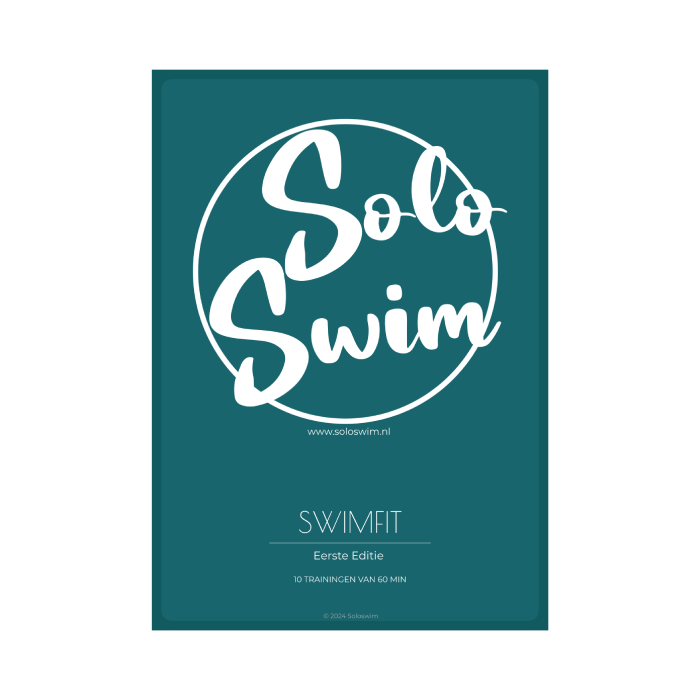
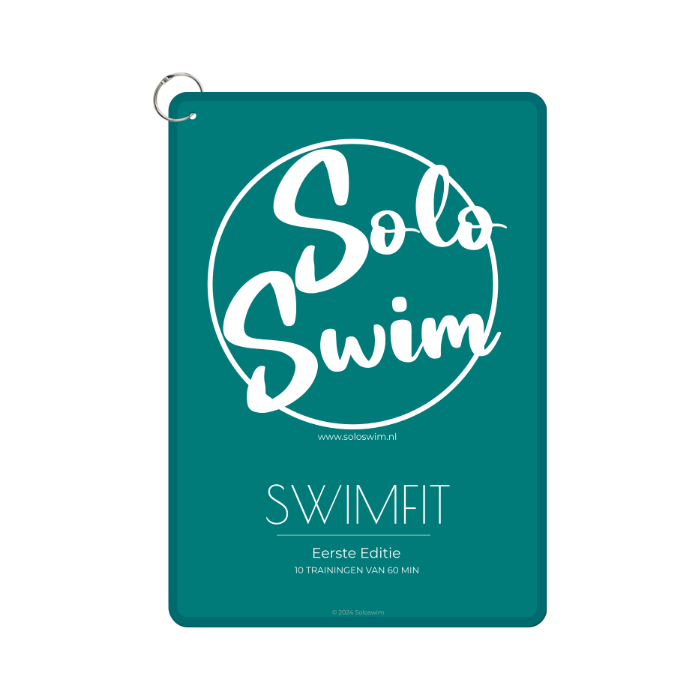
add swimfit image and fix cart and cartmodal regarding type undefined case

Changed region(s): [[0.21, 0.09, 0.81, 0.9], [0.36, 0.69, 0.63, 0.84]]

diff --git a/components/products/SectionProductDescription.js b/components/products/SectionProductDescription.js
@@ -58,7 +58,7 @@ function SectionProductDescription({ productData, addItemToBasket }) {
     window.history.pushState({}, "", url);
   };
 
-  const [niveau, setNiveau] = useState("Beginners");
+  const [niveau, setNiveau] = useState();
 
   useEffect(() => {
     const niveauParam = searchParams.get("niveau");
@@ -263,9 +263,7 @@ function SectionProductDescription({ productData, addItemToBasket }) {
                     query: {
                       inCart: "true",
                       id: productData.id,
-                      niveau: productData.type
-                        ? niveau.toLowerCase()
-                        : undefined,
+                      ...(niveau && { niveau: niveau.toLowerCase() }),
                     },
                   }}
                 >

diff --git a/components/products/CartModal.tsx b/components/products/CartModal.tsx
@@ -18,6 +18,9 @@ function Modal() {
   console.log(addedItem);
 
   const typeNumber = () => {
+    if (!addedItem[0].type) {
+      return 0;
+    }
     if (
       addedItem[0].type === "Beginners" ||
       addedItem[0].type === "25 meter zwembad"

diff --git a/products/soloswim-badmuts.md b/products/soloswim-badmuts.md
@@ -4,7 +4,7 @@ product_id: "BM1"
 title: "De Soloswim badmuts"
 price: 9.99
 description: "Spread the word met de officiële Soloswim badmuts! Gemaakt van sterk, flexibel en fijn siliconen materiaal wat zorgt voor een comfortabele pasvorm. Het dragen van een badmuts helpt lang haar uit het gezicht te houden, zo kun jij je beter focussen op het zwemmen."
-inStock: false
+inStock: true
 features:
   [
     "Het Soloswim logo is aanwezig op allebei de zijkanten",

diff --git a/products/swimfit.md b/products/swimfit.md
@@ -27,11 +27,7 @@ images:
     "/images/zwemschemas/bcl100/4.png",
   ]
 tab1_image: "/images/zwemschemas/bcl100/5.png"
-winkelwagen_images:
-  [
-    "/images/zwemschemas/bcl100/cart/1.png",
-    "/images/zwemschemas/bcl100/cart/2.png",
-  ]
+winkelwagen_images: ["/images/zwemschemas/sf1/cart/1.png"]
 card_info: "Voor de rustige banenzwemmer"
 ---
 
